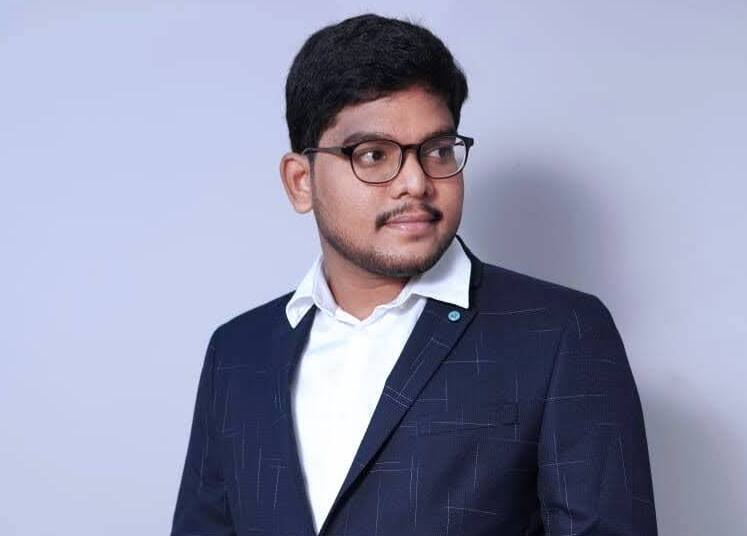
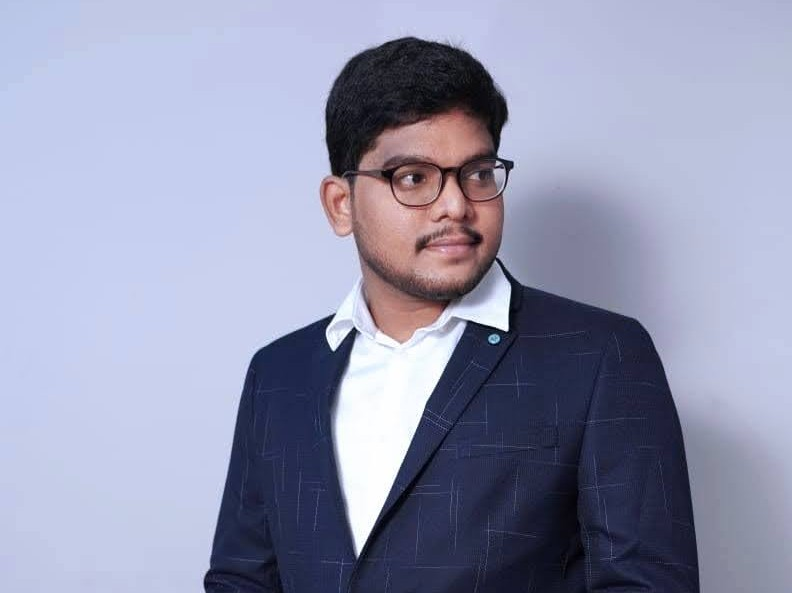
minor fixes 2

diff --git a/src/components/Home/index.tsx b/src/components/Home/index.tsx
@@ -1,5 +1,5 @@
 import React from "react";
-import myProfile from "../../assets/img/myProfile2.png";
+import myProfile from "../../assets/img/myProfile3.jpg";
 
 const Home = () => {
   return (
@@ -38,7 +38,7 @@ const Home = () => {
       <div className="column is-1"></div>
       <div className="column is-5 is-flex is-flex-direction-column is-justify-content-center is-align-items-center">
         <div
-          style={{ height: "60%" }}
+          style={{ height: "65%" }}
           className="is-flex is-flex-direction-column is-justify-content-space-between"
         >
           <h1 className="is-size-1 has-text-weight-bold">Hi, I am Bhargav</h1>
@@ -67,7 +67,7 @@ const Home = () => {
       <div className="column is-1"></div>
       <div className="column is-4 is-flex is-flex-direction-column is-justify-content-center is-align-items-center">
         <img
-          style={{ width: "300px", height: "300px" }}
+          style={{ width: "300px", height: "300px", borderRadius: "150px" }}
           src={myProfile}
           alt="profile-pic"
         />

diff --git a/src/components/About/index.tsx b/src/components/About/index.tsx
@@ -15,22 +15,14 @@ const About = () => {
       </div>
       <div className="section">
         <div className="columns is-gapless p-6">
-          <div
+          <img
+            className="column is-5"
             style={{
               borderRadius: "20px",
             }}
-            className="column is-5 box is-flex is-flex-direction-column is-justify-content-center is-align-items-center"
-          >
-            <img
-              style={{
-                borderRadius: "20px",
-                width: "100%",
-                height: "100%",
-              }}
-              src={myProfileAbout}
-              alt="profile-about"
-            />
-          </div>
+            src={myProfileAbout}
+            alt="profile-about"
+          />
           <div className="column is-2"></div>
           <div className="column is-5">
             <div

diff --git a/src/components/Skills/index.tsx b/src/components/Skills/index.tsx
@@ -15,7 +15,7 @@ const Skills = () => {
     { name: "Python", completion: "80" },
     { name: "Node & Express", completion: "70" },
     { name: "SQL & PostgreSQL & Elasticsearch", completion: "80" },
-    { name: "DSA", completion: "80" },
+    { name: "Data Structures & Algorithms", completion: "80" },
   ];
   return (
     <div style={{ minHeight: "90vh" }} id="skills">
